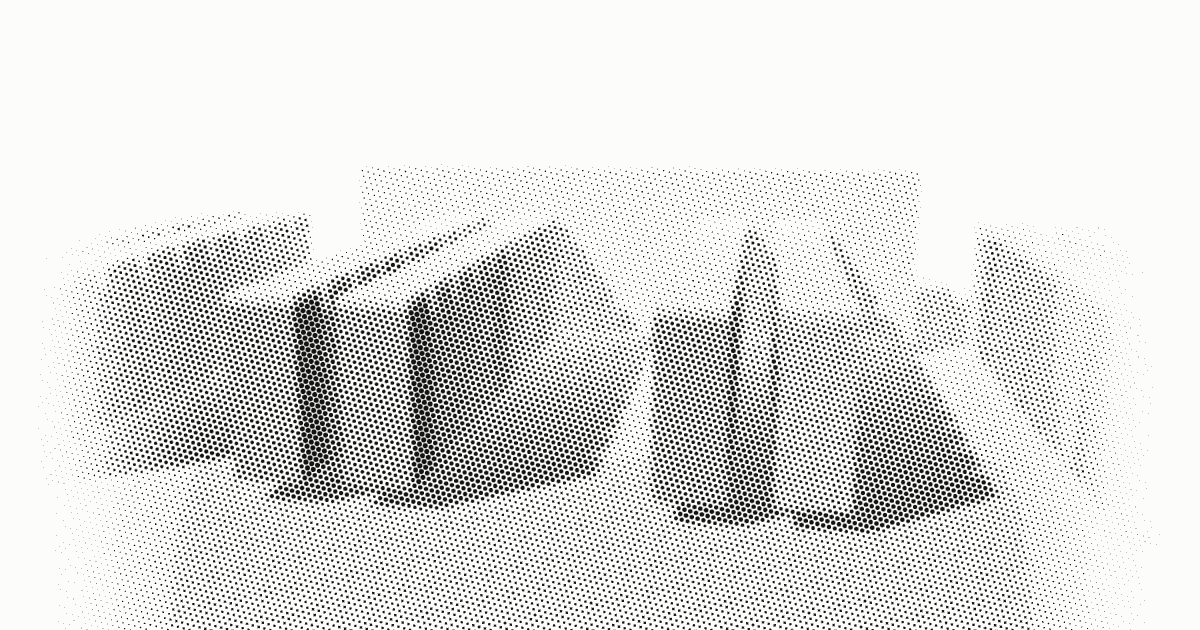
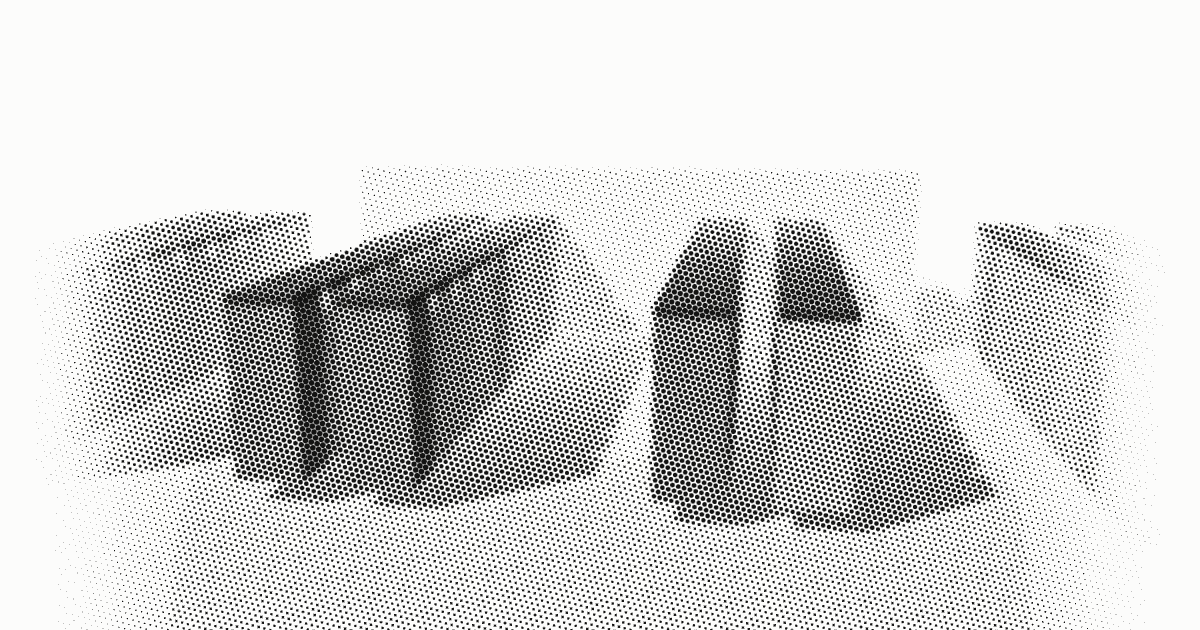
Pull datacenter's racks onto the dark end of the tone scale
The corridor rework in 33de18e left datacenter drawing from TONE[0],
TONE[1] and TONE[2] only, silently undoing the migration c95b6e1 made.
Its darkest element was #9C9C9A at 156 against a lightest of #D6D6D4 at
214: a 58-level span, barely wider than the 46 the two replaced
materials sat at and the exact flatness this version exists to remove.
Every other subject except urban reaches TONE[4] at 86 and spans 128.

Rack bodies now draw from TONE[2] and TONE[3], two adjacent mass tones
at the dark end rather than at the light end. The 0.28-unit cap rail
takes TONE[4]: it is the thinnest element in the scene and the one that
gives each corridor a per-cabinet cadence rather than one unbroken
silhouette, so it is the right home for the deepest step, the same call
port makes for a gantry beam and grid for a conductor. The far wall
stays at TONE[1], which now reads as a lit surface behind dark mass
instead of sitting level with the racks, and matches the relationship
the TONE[1] floor already has with the aisles.

Indices are not a restore of c95b6e1's: that scene had racks across the
frame at a distant camera, this one has four corridors at a close one,
so the bodies move down two steps rather than one and the rail comes
back to TONE[4] from the TONE[0] the rework gave it.

Datacenter now spans 128 like everything else and reaches all five
steps. Mean ink lands at 0.160 (card) and 0.178 (hero), between port's
[…]

Changed region(s): [[0.0617, 0.3317, 0.4625, 0.7841], [0.5242, 0.3317, 0.74, 0.8143], [0.8017, 0.3619, 0.925, 0.7841]]

diff --git a/prototypes/dot-foundry.html b/prototypes/dot-foundry.html
@@ -53444,13 +53444,27 @@ function buildScene(id){
       const x = xRaw - xOff;
       for (let i=0;i<cabs;i++){
         const z = i*2.4 - zOff;
-        box(depth,rackH,1.9, x, rackH/2+0.5, z, rnd()>.7?TONE[2]:TONE[1]);
-        box(depth,.28,1.9, x, rackH+0.64, z, TONE[0]);
+        /* Rack bodies sit on the two adjacent mass tones at the dark end and
+           the 0.28-unit cap rail takes TONE[4], the deepest step. The rail is
+           the thinnest element in the scene and the one that says "row of
+           cabinets" rather than "block": it is what gives each corridor a
+           per-cabinet cadence along its top edge instead of one unbroken
+           silhouette. Reserving the deepest step for the thinnest defining
+           element is the same call port makes for a gantry beam and grid
+           makes for a conductor. Before this the racks drew from TONE[1] and
+           TONE[2] and the rail from TONE[0], which left the subject spanning
+           58 levels against every other subject's 128. */
+        box(depth,rackH,1.9, x, rackH/2+0.5, z, rnd()>.7?TONE[3]:TONE[2]);
+        box(depth,.28,1.9, x, rackH+0.64, z, TONE[4]);
       }
     }
     /* A wall at the far end of the corridors, in a tone the racks never
        reach, so the aisles resolve into an interior instead of open space —
-       the envelope that says hall rather than a field of freestanding masses. */
+       the envelope that says hall rather than a field of freestanding masses.
+       It sits lighter than the racks now rather than level with them, which is
+       the correct direction: a lit surface at the end of a corridor read
+       against dark mass in front of it, the same relationship the TONE[1]
+       floor has with the aisles. */
     box(x0[x0.length-1] - xOff + 6, rackH + 2.4, 0.6, 0, (rackH + 2.4)/2 + 0.5, -zOff - 1.5, TONE[1]);
     ground(g, TONE, rnd, { w: 120, d: 110, amp: 0.8, flat: 30, ridge: 4.0, ridgeDist: 17, scatter: 16 });
   }

diff --git a/prototypes/dot-render.html b/prototypes/dot-render.html
@@ -53300,13 +53300,27 @@ function buildScene(id){
       const x = xRaw - xOff;
       for (let i=0;i<cabs;i++){
         const z = i*2.4 - zOff;
-        box(depth,rackH,1.9, x, rackH/2+0.5, z, rnd()>.7?TONE[2]:TONE[1]);
-        box(depth,.28,1.9, x, rackH+0.64, z, TONE[0]);
+        /* Rack bodies sit on the two adjacent mass tones at the dark end and
+           the 0.28-unit cap rail takes TONE[4], the deepest step. The rail is
+           the thinnest element in the scene and the one that says "row of
+           cabinets" rather than "block": it is what gives each corridor a
+           per-cabinet cadence along its top edge instead of one unbroken
+           silhouette. Reserving the deepest step for the thinnest defining
+           element is the same call port makes for a gantry beam and grid
+           makes for a conductor. Before this the racks drew from TONE[1] and
+           TONE[2] and the rail from TONE[0], which left the subject spanning
+           58 levels against every other subject's 128. */
+        box(depth,rackH,1.9, x, rackH/2+0.5, z, rnd()>.7?TONE[3]:TONE[2]);
+        box(depth,.28,1.9, x, rackH+0.64, z, TONE[4]);
       }
     }
     /* A wall at the far end of the corridors, in a tone the racks never
        reach, so the aisles resolve into an interior instead of open space —
-       the envelope that says hall rather than a field of freestanding masses. */
+       the envelope that says hall rather than a field of freestanding masses.
+       It sits lighter than the racks now rather than level with them, which is
+       the correct direction: a lit surface at the end of a corridor read
+       against dark mass in front of it, the same relationship the TONE[1]
+       floor has with the aisles. */
     box(x0[x0.length-1] - xOff + 6, rackH + 2.4, 0.6, 0, (rackH + 2.4)/2 + 0.5, -zOff - 1.5, TONE[1]);
     ground(g, TONE, rnd, { w: 120, d: 110, amp: 0.8, flat: 30, ridge: 4.0, ridgeDist: 17, scatter: 16 });
   }

diff --git a/prototypes/dot-engine.js b/prototypes/dot-engine.js
@@ -241,13 +241,27 @@ function buildScene(id){
       const x = xRaw - xOff;
       for (let i=0;i<cabs;i++){
         const z = i*2.4 - zOff;
-        box(depth,rackH,1.9, x, rackH/2+0.5, z, rnd()>.7?TONE[2]:TONE[1]);
-        box(depth,.28,1.9, x, rackH+0.64, z, TONE[0]);
+        /* Rack bodies sit on the two adjacent mass tones at the dark end and
+           the 0.28-unit cap rail takes TONE[4], the deepest step. The rail is
+           the thinnest element in the scene and the one that says "row of
+           cabinets" rather than "block": it is what gives each corridor a
+           per-cabinet cadence along its top edge instead of one unbroken
+           silhouette. Reserving the deepest step for the thinnest defining
+           element is the same call port makes for a gantry beam and grid
+           makes for a conductor. Before this the racks drew from TONE[1] and
+           TONE[2] and the rail from TONE[0], which left the subject spanning
+           58 levels against every other subject's 128. */
+        box(depth,rackH,1.9, x, rackH/2+0.5, z, rnd()>.7?TONE[3]:TONE[2]);
+        box(depth,.28,1.9, x, rackH+0.64, z, TONE[4]);
       }
     }
     /* A wall at the far end of the corridors, in a tone the racks never
        reach, so the aisles resolve into an interior instead of open space —
-       the envelope that says hall rather than a field of freestanding masses. */
+       the envelope that says hall rather than a field of freestanding masses.
+       It sits lighter than the racks now rather than level with them, which is
+       the correct direction: a lit surface at the end of a corridor read
+       against dark mass in front of it, the same relationship the TONE[1]
+       floor has with the aisles. */
     box(x0[x0.length-1] - xOff + 6, rackH + 2.4, 0.6, 0, (rackH + 2.4)/2 + 0.5, -zOff - 1.5, TONE[1]);
     ground(g, TONE, rnd, { w: 120, d: 110, amp: 0.8, flat: 30, ridge: 4.0, ridgeDist: 17, scatter: 16 });
   }
